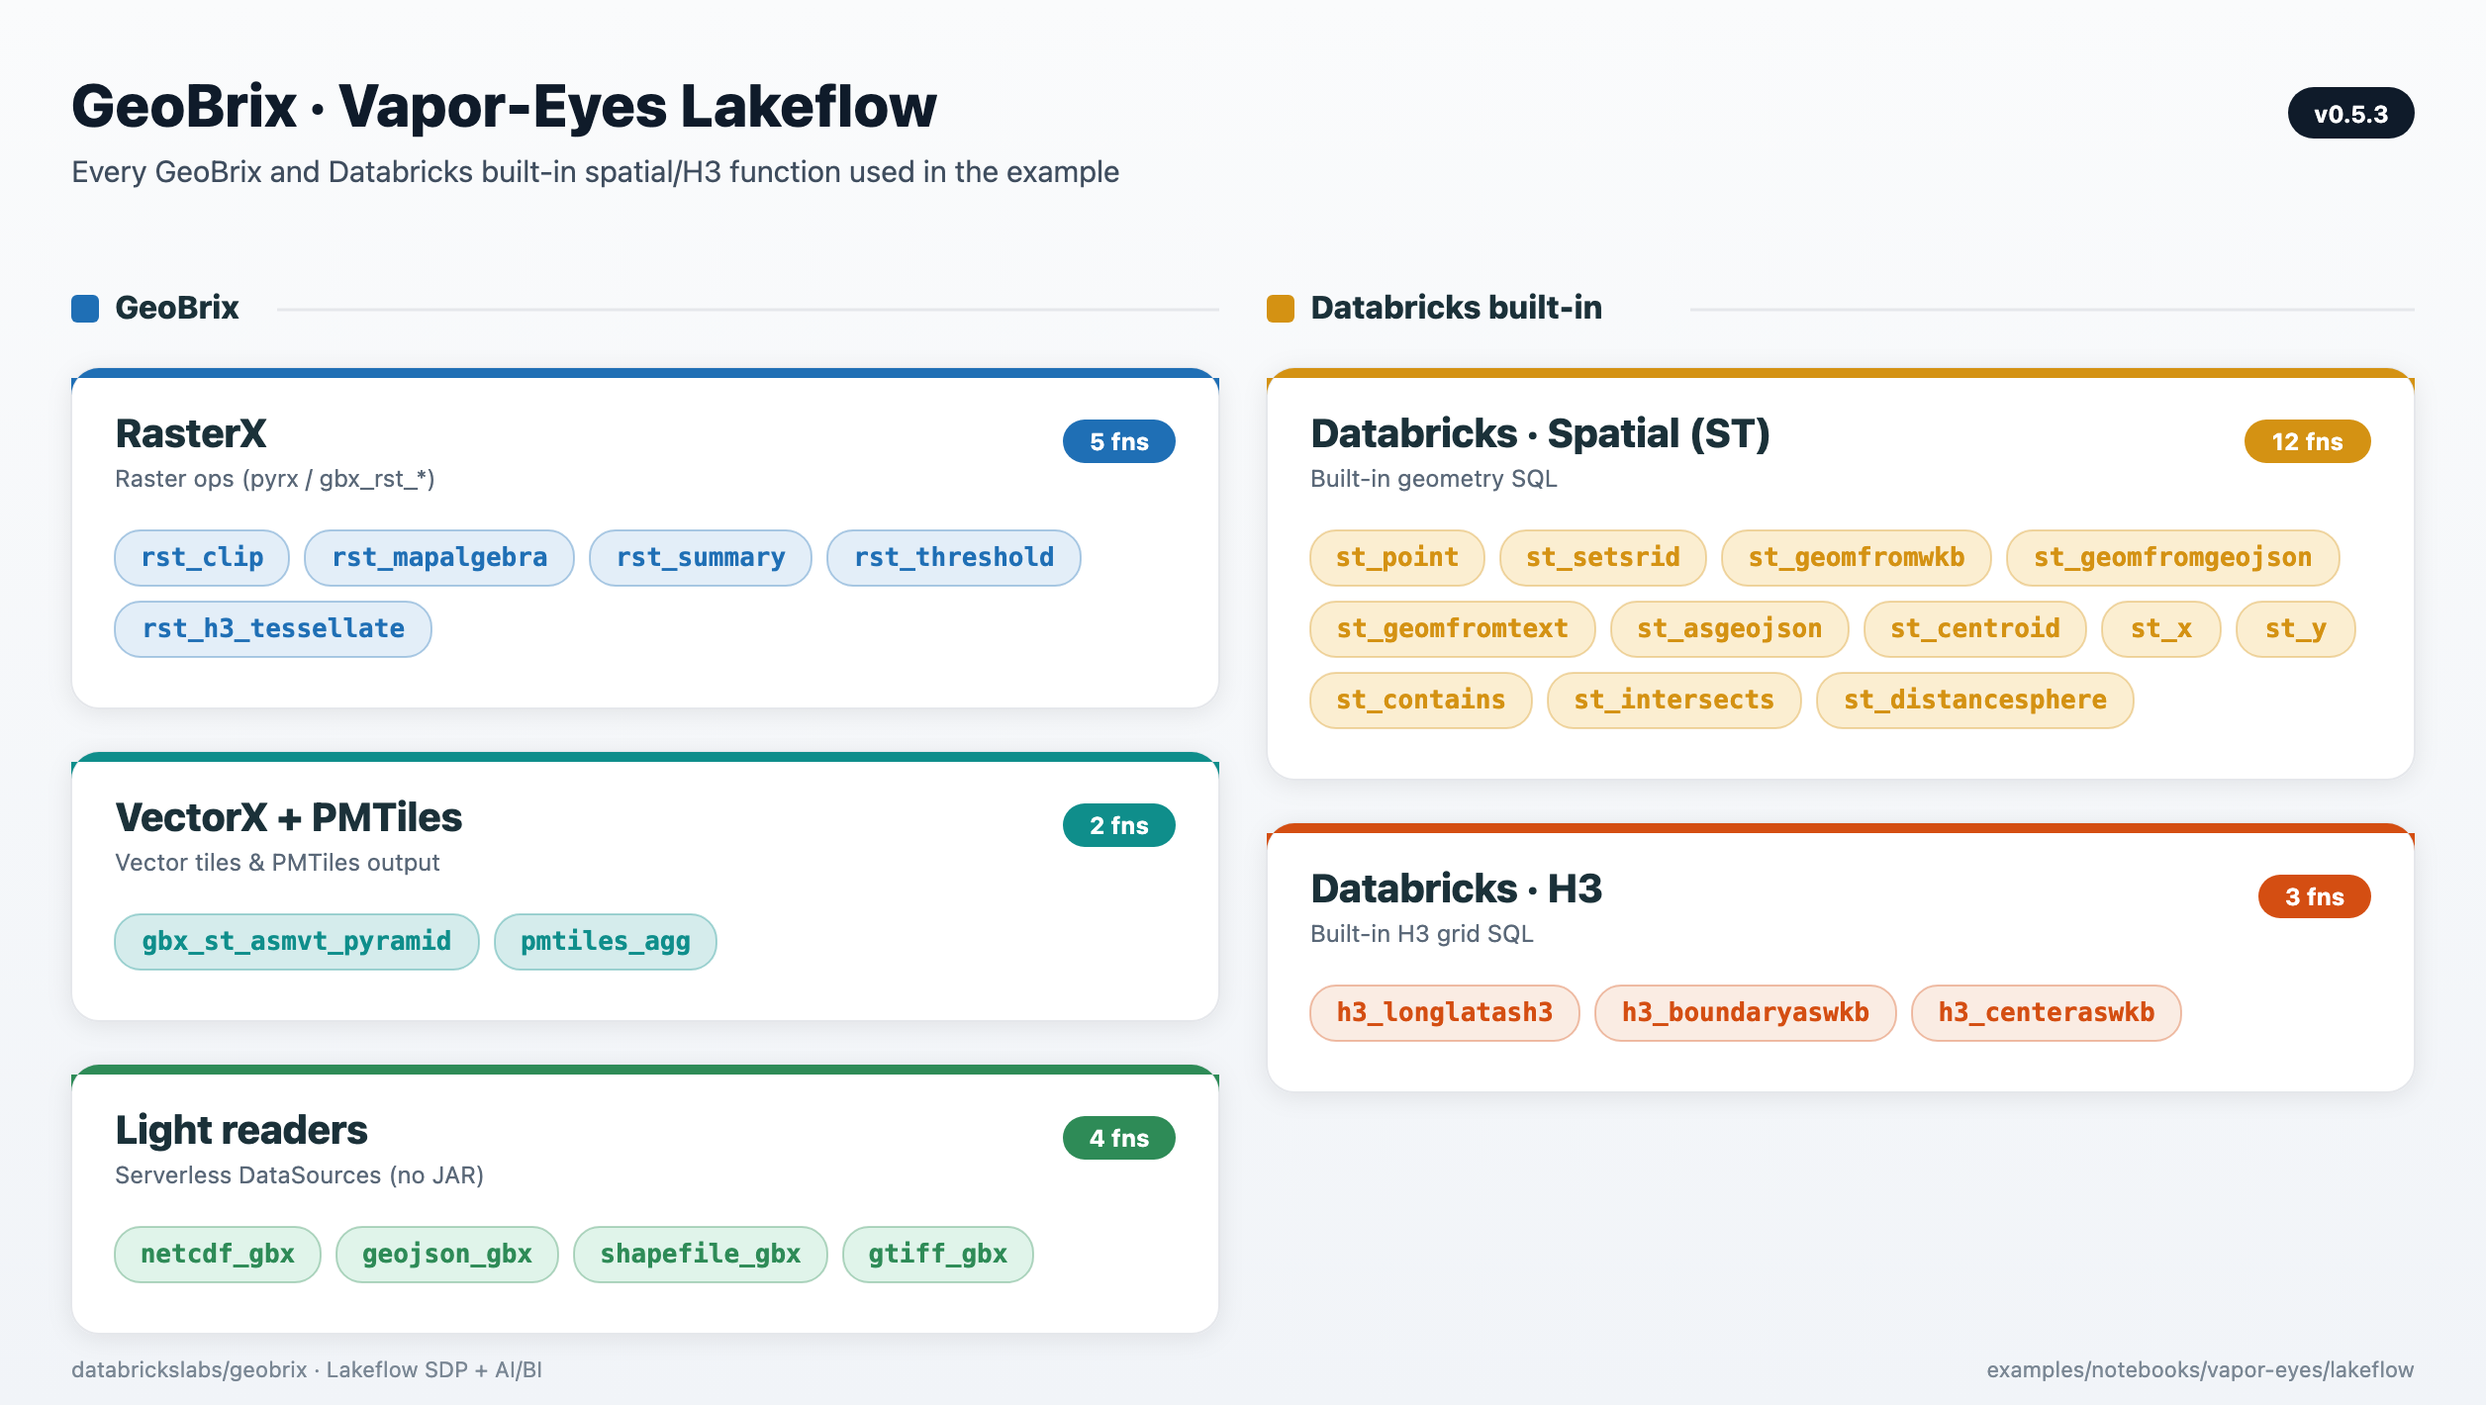
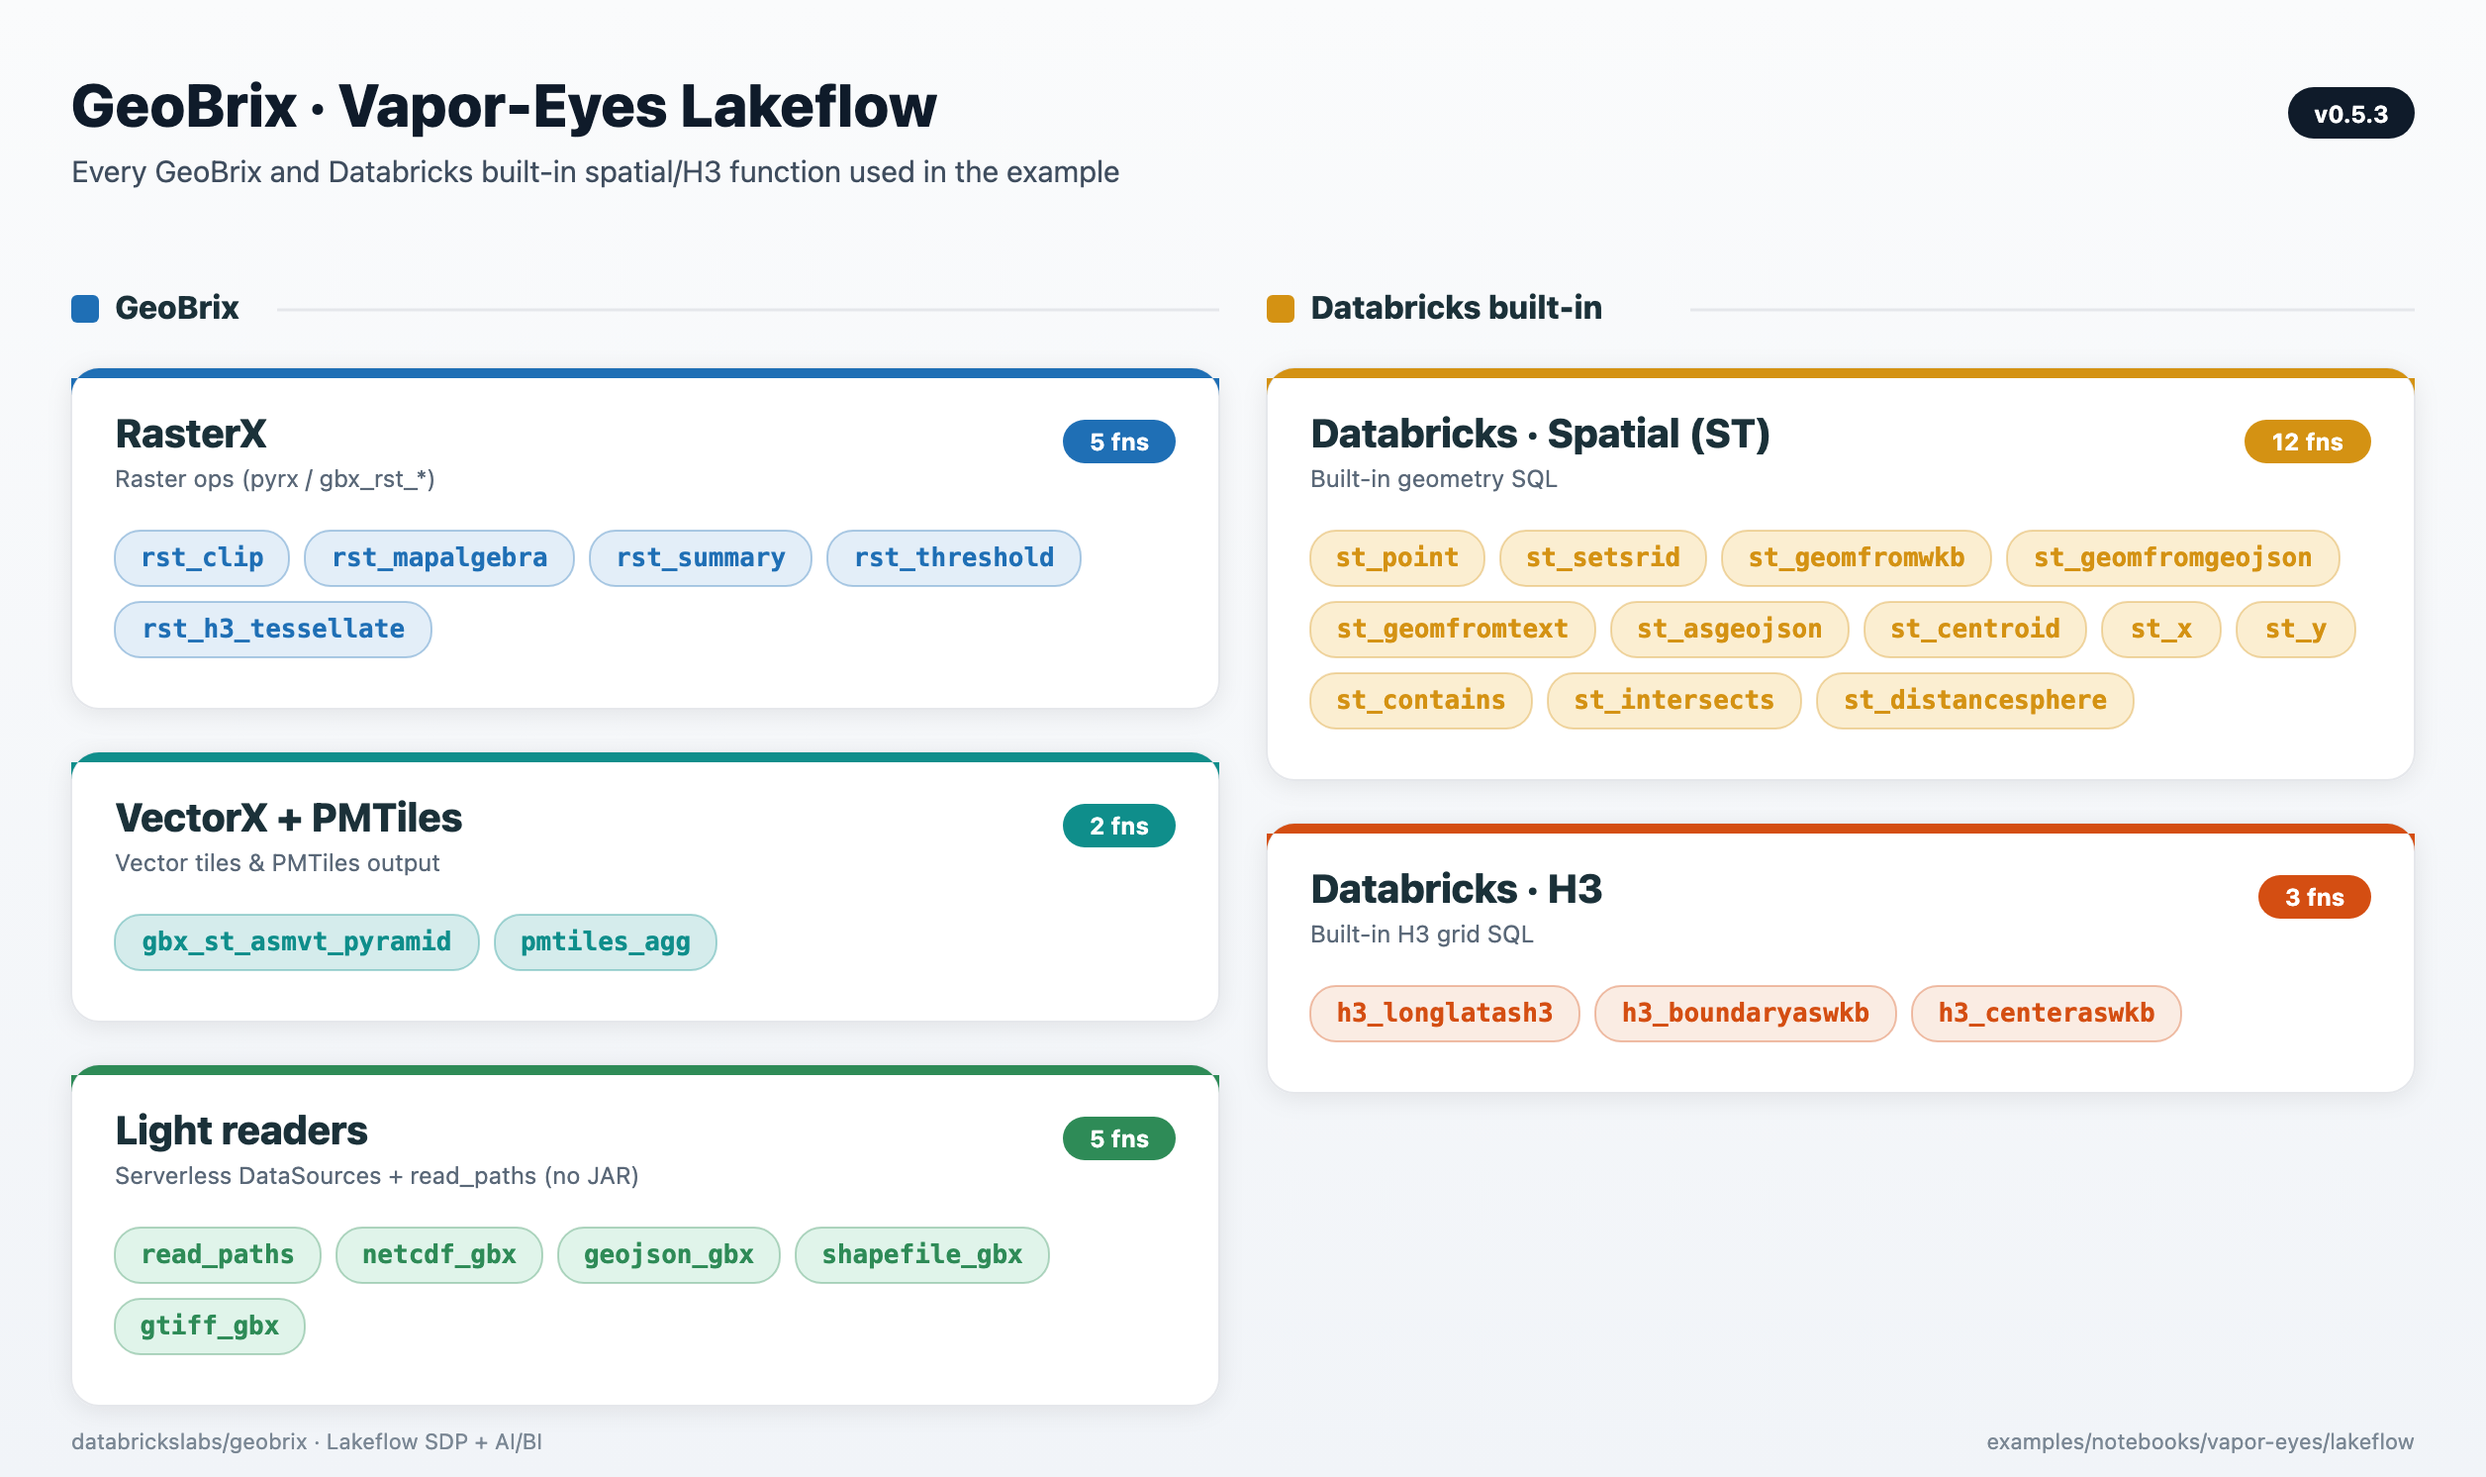
docs(examples): Vapor-Eyes function palette lists read_paths
The palette says it shows every GeoBrix function the Lakeflow example
uses, and silver now reads its files with read_paths, so the Light
readers card lists it (27 functions). The SVG and PNG are re-rendered
from the generator, and the intro sentence and alt text in the README
and the docs page name it too.

diff --git a/resources/images/generators/vapor-eyes-lakeflow-functions.py b/resources/images/generators/vapor-eyes-lakeflow-functions.py
@@ -50,7 +50,7 @@ HEADER_CARD_GAP = 14
 CARD_W = 580
 LANDSCAPE_W = PAD * 2 + CARD_W * 2 + COL_GAP
 
-# --- Data: 26 functions used by the Vapor-Eyes Lakeflow example -----------
+# --- Data: 27 functions used by the Vapor-Eyes Lakeflow example -----------
 
 GEOBRIX_CARDS = [
     Card(
@@ -67,9 +67,9 @@ GEOBRIX_CARDS = [
     ),
     Card(
         title="Light readers",
-        subtitle="Serverless DataSources (no JAR)",
+        subtitle="Serverless DataSources + read_paths (no JAR)",
         color="#2E8B57", tint="#E0F4EA",
-        fns=["netcdf_gbx", "geojson_gbx", "shapefile_gbx", "gtiff_gbx"],
+        fns=["read_paths", "netcdf_gbx", "geojson_gbx", "shapefile_gbx", "gtiff_gbx"],
     ),
 ]
 

diff --git a/examples/notebooks/vapor-eyes/lakeflow/README.md b/examples/notebooks/vapor-eyes/lakeflow/README.md
@@ -40,9 +40,9 @@ Each stage reads only the one before it — declared as table-to-table dependenc
 
 ## Spatial functions used
 
-The pipeline composes **GeoBrix** functions with Databricks' **built-in spatial SQL and H3** — RasterX for raster ops, VectorX + PMTiles for tiles, the light-tier readers for Serverless ingest, and native `st_*` / `h3_*` for geometry and gridding.
+The pipeline composes **GeoBrix** functions with Databricks' **built-in spatial SQL and H3** — RasterX for raster ops, VectorX + PMTiles for tiles, the light-tier readers (run over the bronze inventories by `read_paths`) for Serverless ingest, and native `st_*` / `h3_*` for geometry and gridding.
 
-![Spatial functions used across the Vapor-Eyes Lakeflow example — GeoBrix RasterX, VectorX + PMTiles, and light readers, plus Databricks built-in ST and H3 functions](../../../../resources/images/diagrams/vapor-eyes/vapor-eyes-lakeflow-functions.png)
+![Spatial functions used across the Vapor-Eyes Lakeflow example — GeoBrix RasterX, VectorX + PMTiles, and light readers with read_paths, plus Databricks built-in ST and H3 functions](../../../../resources/images/diagrams/vapor-eyes/vapor-eyes-lakeflow-functions.png)
 
 ---
 
